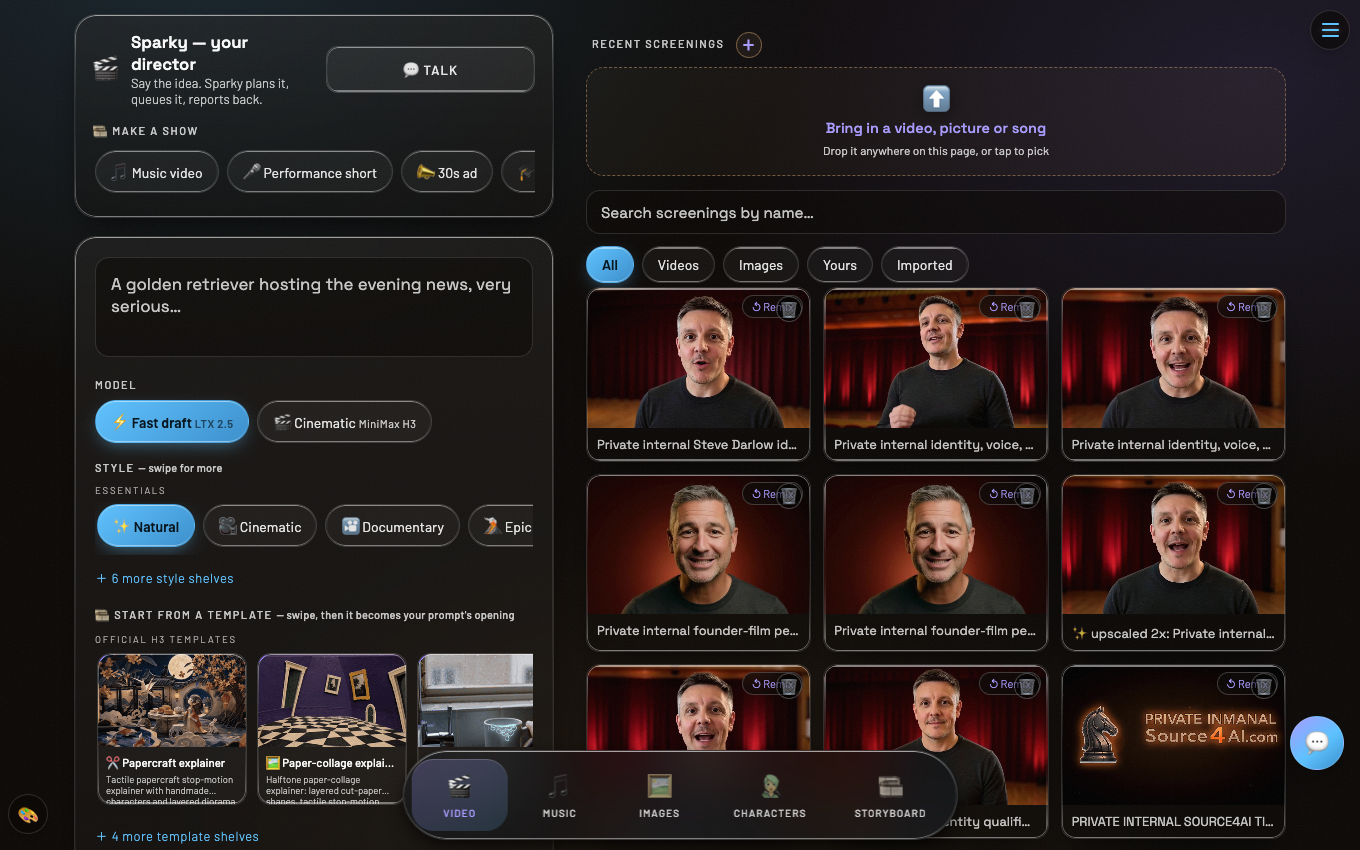
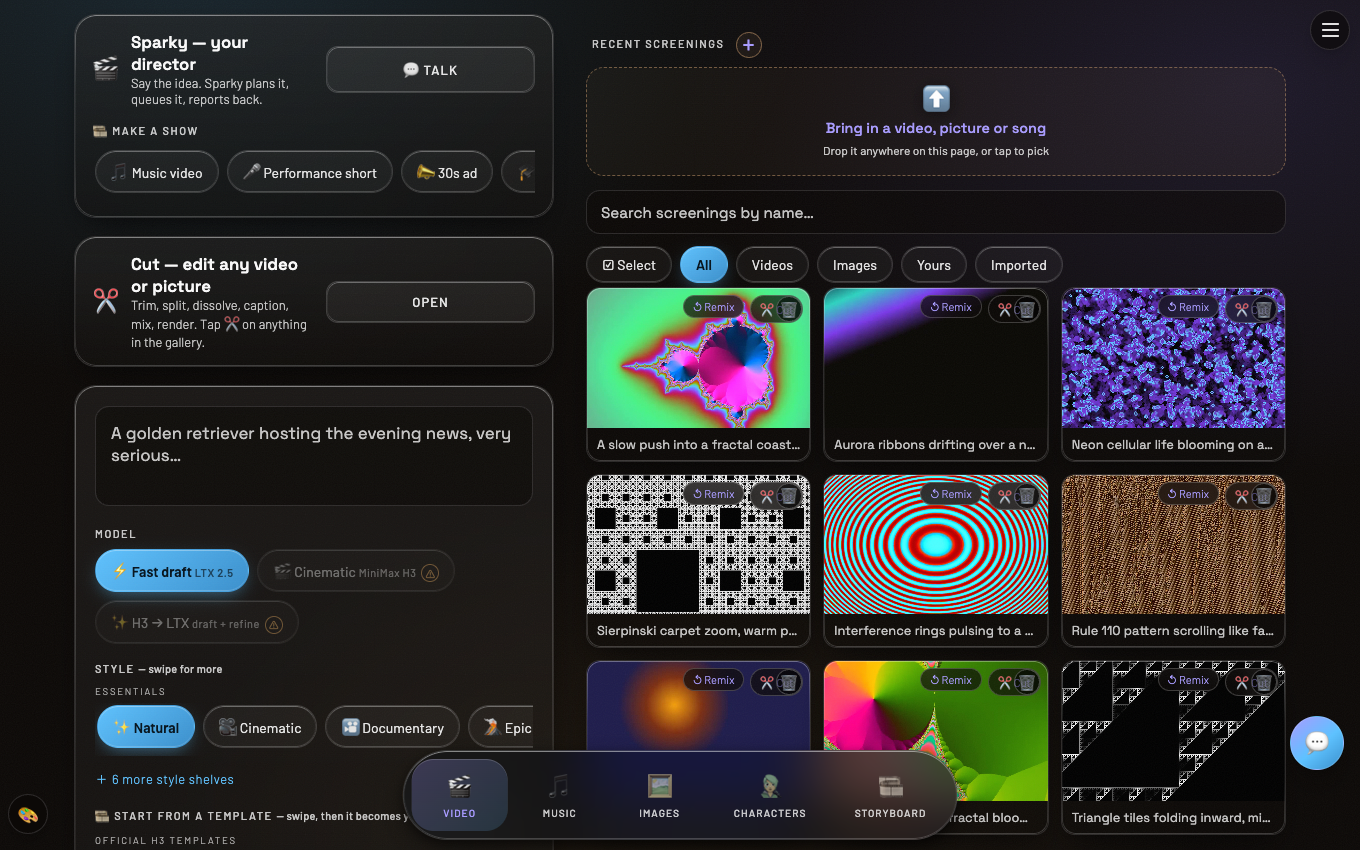
Replace the studio screenshots; tests stop naming private words; overlay looks keep their ground
- media-lab/docs/screenshots/media-lab-desktop.png showed the maintainers'
  own faces, names and a private brand in the gallery. It and the phone
  shot (also in app/docs) are re-shot from a fresh local studio: public
  defaults, generated abstract demo clips, H3/YuE2 greyed out. README alt
  text follows.
- tests/test_identity_guard.py spelled out the words the guard hashes
  (assembled from pieces) plus a real hostname. The hashed-word cases now
  load the guard in-process with made-up words swapped into its tables;
  new checks: neither the guard nor this test file spells a blocked word
  (string literals on a line are joined first), and every kind of entry
  is still in the table. The guard's own comment used a blocked phrase
  as its example; it now uses a neutral one.
- tests/test_cut_storyboard.py checked for fragments of a real tailnet
  address and MagicDNS name; it now checks for any tailnet address or
  .ts.net name.
- index.html / cut.html: a look from config/local/themes.json painted the
  page ground dark before first render and on overscroll. paintChrome now
  paints the ground and remembers its colour (lab-theme-ink, validated
  #hex) once the look is known, and the pre-render bootstrap uses it.

Changed region(s): [[0.4324, 0.2753, 0.9574, 1.0], [0.0618, 0.4282, 0.4015, 1.0], [0.0618, 0.3059, 0.3706, 0.4282]]

diff --git a/media-lab/static/index.html b/media-lab/static/index.html
@@ -19,7 +19,9 @@
   if(t===null||t===undefined)t='coagent';   /* Studio default: the Co-Agent look */
   if(t)document.documentElement.dataset.theme=t;
   var ink={'':'#0B0806','coagent':'#0B0806','ocean':'#071019','emerald':'#06120C','violet':'#0D0814',
-           'paper':'#F7F7F8'}[t]||'#0B0806';
+           'paper':'#F7F7F8'}[t];
+  /* a look from the studio's local overlay: the ground it last painted */
+  if(!ink){var li=localStorage.getItem('lab-theme-ink');ink=/^#[0-9A-Fa-f]{3,8}$/.test(li||'')?li:'#0B0806';}
   document.documentElement.style.background=ink;
   var m=document.querySelector('meta[name="theme-color"]');   /* the static one above */
   if(m)m.setAttribute('content',ink);
@@ -2212,6 +2214,13 @@ function paintChrome(t){
   let m=document.querySelector('meta[name="theme-color"]');
   if(!m){m=document.createElement('meta');m.name='theme-color';document.head.appendChild(m);}
   m.setAttribute('content',ink);
+  /* the page ground too, remembered so the pre-render bootstrap can paint an
+     overlay look's ground (only once that look is known here: an overlay look
+     read before /api/local/themes answers must not overwrite its ink) */
+  if((t||'') in THEME_INK){
+    document.documentElement.style.background=ink;
+    try{localStorage.setItem('lab-theme-ink',ink);}catch(e){}
+  }
   const lk=document.querySelector('link[rel="manifest"]');
   if(lk)lk.href=t?`/manifest.json?theme=${encodeURIComponent(t)}`:'/manifest.json';
 }

diff --git a/media-lab/static/cut.html b/media-lab/static/cut.html
@@ -18,7 +18,9 @@
   if(t===null||t===undefined)t='coagent';
   if(t)document.documentElement.dataset.theme=t;
   var ink={'':'#0B0806','coagent':'#0B0806','ocean':'#071019','emerald':'#06120C','violet':'#0D0814',
-           'paper':'#F7F7F8'}[t]||'#0B0806';
+           'paper':'#F7F7F8'}[t];
+  /* a look from the studio's local overlay: the ground it last painted */
+  if(!ink){var li=localStorage.getItem('lab-theme-ink');ink=/^#[0-9A-Fa-f]{3,8}$/.test(li||'')?li:'#0B0806';}
   document.documentElement.style.background=ink;
   var m=document.querySelector('meta[name="theme-color"]');
   if(m)m.setAttribute('content',ink);

diff --git a/media-lab/tests/test_identity_guard.py b/media-lab/tests/test_identity_guard.py
@@ -1,22 +1,29 @@
 """Tests for tools/identity_guard.py.
 
-The guard runs on `git ls-files`, so every case builds a throwaway repository in
-`tmp_path` and invokes the guard there as a subprocess (`repo_root()` resolves
-from cwd). Private identifiers are assembled at runtime so this test file never
-itself contains a string the guard would reject.
+The guard runs on `git ls-files`, so the file-level cases build a throwaway
+repository in `tmp_path` and invoke the guard there as a subprocess
+(`repo_root()` resolves from cwd).
+
+This file never names a real private word, not even assembled from pieces: the
+hashed-word cases load the guard in-process and swap its tables for made-up
+words, so the mechanism is tested without publishing what it keeps out. Values
+that look private to the guard's patterns (a MagicDNS name, an e-mail address)
+are made up too, and assembled at runtime because the guard scans this file.
 """
 from __future__ import annotations
 
+import importlib.util
 import pathlib
+import re
 import subprocess
 import sys
 
 REPO_ROOT = pathlib.Path(__file__).resolve().parents[2]
 GUARD = REPO_ROOT / "media-lab" / "tools" / "identity_guard.py"
 
-# Built by concatenation: the guard scans this file too.
-PRIVATE_ABS_PATH = b"/Users/" + b"vibex/proj/mod.py"
-PRIVATE_HOSTNAME = "spark-" + "d16e"
+# Made up, and built by concatenation: the guard scans this file too.
+PRIVATE_ABS_PATH = b"/Users/" + b"someone/proj/mod.py"
+PRIVATE_HOSTNAME = "box-1a2b.tail" + "0c1d2e.ts.net"
 
 
 def _git(repo: pathlib.Path, *args: str) -> subprocess.CompletedProcess[str]:
@@ -179,12 +186,31 @@ def test_clean_tree_reports_clean_and_no_remedy(tmp_path: pathlib.Path) -> None:
     assert "Remove the bytecode artifact from the repository" not in result.stderr
 
 # ------------------------------------------------ names, brands, e-mail, CSS
-# Every private word below is assembled at runtime ("a" + "b"): the guard scans
-# this file too, and a quote-plus-quote join is never read as one word.
-PERSON = "Hea" + "ther"
-BRAND = "auto" + "edu"
-CLIENT = "gs" + "gel" + "ato"
-MAIL_DOMAIN = "gm" + "ail.com"
+# Made-up words stand in for the real ones: the real list is stored only as
+# salted hashes, and this file must not spell it out either.
+FAKE_PERSON = "Zorbeth"
+FAKE_BRAND = "quuxcorp"
+FAKE_CLIENT = "zq widgets"          # a two-word phrase
+MAIL_DOMAIN = "mail" + "provider.com"
+
+
+def _load_guard():
+    spec = importlib.util.spec_from_file_location("identity_guard_under_test", GUARD)
+    module = importlib.util.module_from_spec(spec)
+    spec.loader.exec_module(module)
+    return module
+
+
+def _guard_with(monkeypatch, words: dict[str, str], allow_next: dict[str, tuple] | None = None):
+    """The guard, its hash tables replaced by these made-up words -> kinds."""
+    g = _load_guard()
+    table = {g.phrase_hash(w): kind for w, kind in words.items()}
+    firsts = {g.phrase_hash(w.split()[0]) for w in words if len(w.split()) > 1}
+    monkeypatch.setattr(g, "PRIVATE_HASHES", table)
+    monkeypatch.setattr(g, "PHRASE_FIRST_WORDS", firsts)
+    monkeypatch.setattr(g, "ALLOW_NEXT_WORD",
+                        {g.phrase_hash(w): nxt for w, nxt in (allow_next or {}).items()})
+    return g
 
 
 def _scan_text(tmp_path: pathlib.Path, name: str, text: str) -> subprocess.CompletedProcess[str]:
@@ -194,29 +220,44 @@ def _scan_text(tmp_path: pathlib.Path, name: str, text: str) -> subprocess.Compl
     return _run_guard(tmp_path)
 
 
-def test_personal_name_is_rejected(tmp_path: pathlib.Path) -> None:
-    result = _scan_text(tmp_path, "notes.md", f"# {PERSON}'s rule for the studio\n")
-    assert result.returncode == 1
-    assert "notes.md:1:" in result.stderr and "personal name" in result.stderr
+def test_personal_name_is_rejected(monkeypatch, tmp_path: pathlib.Path) -> None:
+    g = _guard_with(monkeypatch, {FAKE_PERSON.lower(): "a maintainer's personal name"})
+    hit = g.line_hit(f"# {FAKE_PERSON}'s rule for the studio")
+    assert hit and FAKE_PERSON in hit and "personal name" in hit
+    notes = tmp_path / "notes.md"
+    notes.write_text(f"ok line\nasked by {FAKE_PERSON.upper()}\n")
+    hits = g.scan([notes], tmp_path)
+    assert len(hits) == 1 and hits[0].startswith("notes.md:2:")
+    assert g.line_hit("an ordinary line about the studio") is None
 
 
-def test_lower_case_knit_colour_is_not_a_name(tmp_path: pathlib.Path) -> None:
-    result = _scan_text(tmp_path, "prompt.txt", f"a fitted {PERSON.lower()}-gray tee\n")
-    assert result.returncode == 0, result.stderr
-    result = _scan_text(tmp_path / "b", "prompt.txt", f"the {PERSON} grey-canvas lesson\n")
-    assert result.returncode == 1
+def test_lower_case_colour_exception_keeps_the_capitalised_name(monkeypatch) -> None:
+    g = _guard_with(monkeypatch, {FAKE_PERSON.lower(): "a maintainer's personal name"},
+                    allow_next={FAKE_PERSON.lower(): ("gray", "grey")})
+    assert g.line_hit(f"a fitted {FAKE_PERSON.lower()}-gray tee") is None
+    assert g.line_hit(f"the {FAKE_PERSON} grey-canvas lesson")
+    assert g.line_hit(f"{FAKE_PERSON.lower()} said so")
 
 
-def test_private_brand_in_a_hostname_is_rejected(tmp_path: pathlib.Path) -> None:
-    result = _scan_text(tmp_path, "cfg.env", f"URL=https://media.{BRAND}.ai/x\n")
-    assert result.returncode == 1 and "private brand" in result.stderr
+def test_private_brand_in_a_hostname_is_rejected(monkeypatch) -> None:
+    g = _guard_with(monkeypatch, {FAKE_BRAND: "a private brand"})
+    hit = g.line_hit(f"URL=https://media.{FAKE_BRAND}.ai/x")
+    assert hit and "private brand" in hit
+    # a word that merely contains it is a different word
+    assert g.line_hit(f"URL=https://media.{FAKE_BRAND}ish.ai/x") is None
 
 
-def test_client_brand_and_copied_css_are_rejected(tmp_path: pathlib.Path) -> None:
-    result = _scan_text(tmp_path, "a.css", f"/* from {CLIENT} */\n")
-    assert result.returncode == 1 and "client brand" in result.stderr
+def test_multi_word_client_phrase_is_rejected(monkeypatch) -> None:
+    g = _guard_with(monkeypatch, {FAKE_CLIENT: "a client brand"})
+    hit = g.line_hit("/* colours from ZQ  Widgets, verbatim */")
+    assert hit and "client brand" in hit
+    assert g.line_hit("zq-widgets.css") and g.line_hit("zq_widgets")
+    assert g.line_hit("zq alone is fine; widgets too") is None
+
+
+def test_copied_client_css_is_rejected(tmp_path: pathlib.Path) -> None:
     rim = ("rgba(255,255,255," + ".50) 0%,\n  rgba(255,255,255," + ".16) 22%")
-    result = _scan_text(tmp_path / "b", "b.css", f".x{{background:linear-gradient(180deg,\n  {rim})}}\n")
+    result = _scan_text(tmp_path, "b.css", f".x{{background:linear-gradient(180deg,\n  {rim})}}\n")
     assert result.returncode == 1 and "copied CSS" in result.stderr
 
 
@@ -233,9 +274,30 @@ def test_personal_email_is_rejected_and_reserved_domains_pass(tmp_path: pathlib.
 
 
 def test_guard_source_never_spells_the_words_it_blocks() -> None:
-    source = GUARD.read_text(encoding="utf-8").lower()
-    for word in (PERSON, BRAND, CLIENT, MAIL_DOMAIN, PRIVATE_HOSTNAME):
-        assert word.lower() not in source, word
+    """Every hashed word or phrase stays out of the guard's own source."""
+    g = _load_guard()
+    for n, line in enumerate(GUARD.read_text(encoding="utf-8").splitlines(), 1):
+        assert g.private_phrase(line) is None, f"identity_guard.py:{n}"
+
+
+def test_this_test_file_never_spells_a_blocked_word() -> None:
+    """Not even assembled from pieces: join the string literals on each line."""
+    g = _load_guard()
+    literal = re.compile(r'''b?(["'])((?:\\.|(?!\1).)*?)\1''')
+    for n, line in enumerate(pathlib.Path(__file__).read_text(encoding="utf-8").splitlines(), 1):
+        joined = "".join(m.group(2) for m in literal.finditer(line))
+        assert g.private_phrase(joined) is None, f"line {n}"
+        assert g.private_phrase(line) is None, f"line {n}"
+
+
+def test_hash_table_is_well_formed_and_covers_each_kind() -> None:
+    g = _load_guard()
+    assert all(re.fullmatch(r"[0-9a-f]{16}", h) for h in g.PRIVATE_HASHES)
+    assert all(re.fullmatch(r"[0-9a-f]{16}", h) for h in g.PHRASE_FIRST_WORDS)
+    kinds = set(g.PRIVATE_HASHES.values())
+    for kind in ("a maintainer's personal name", "a private brand", "a client brand",
+                 "a private production", "a private machine identity"):
+        assert kind in kinds, kind
 
 
 def test_hash_helper_prints_an_entry_to_paste() -> None:

diff --git a/media-lab/tests/test_cut_storyboard.py b/media-lab/tests/test_cut_storyboard.py
@@ -1,5 +1,6 @@
 import copy
 import json
+import re
 from pathlib import Path
 
 import pytest
@@ -223,8 +224,11 @@ def test_cut_ui_contract_and_entrypoints_exist():
     assert '@app.post("/api/cut/projects/{project_id}/commands")' in app_source
     assert '@app.post("/api/cut/projects/{project_id}/sparky/commands")' in app_source
     assert '@app.post("/api/cut/projects/{project_id}/render")' in app_source
-    # no private hosts in anything Cut ships
+    # no private hosts in anything Cut ships: no tailnet (CGNAT) address, no
+    # MagicDNS name, no service account or laptop hostname
+    tailnet_ip = re.compile(r"\b100\.(?:6[4-9]|[7-9]\d|1[01]\d|12[0-7])\.\d{1,3}\.\d{1,3}\b")
     for text in (html, css, js, (ROOT / "media_lab_core/cut.py").read_text(),
                  (ROOT / "media_lab_core/cut_cli.py").read_text(), (ROOT / "docs/CUT.md").read_text()):
-        for bad in ("100.66.", "medialab", "macbook-pro", "tail33"):
+        assert not tailnet_ip.search(text)
+        for bad in (".ts.net", "medialab", "macbook-pro"):
             assert bad not in text

diff --git a/media-lab/tools/identity_guard.py b/media-lab/tools/identity_guard.py
@@ -72,7 +72,7 @@ PRIVATE_PATTERNS = [
 ]
 
 # Salted SHA-256 prefixes of private words and phrases, lower-cased, words
-# joined by one space ("dead sun", "100 64 1 2"). Value = what kind of thing it
+# joined by one space ("some phrase", "100 64 1 2"). Value = what kind of thing it
 # is, which is all a hit reports besides the matched text.
 HASH_SALT = b"vibexstudio-identity-guard:v1:"
 PRIVATE_HASHES = {

diff --git a/media-lab/README.md b/media-lab/README.md
@@ -10,7 +10,7 @@ and charge for generation. Engine support and licenses vary; see the
 [capability status](../docs/CAPABILITY-STATUS.md).
 
 <p align="center">
-  <img src="docs/screenshots/media-lab-desktop.png" width="640" alt="Media Lab — a real studio: Sparky, the maker panel, and a gallery of generated talking-head films">
+  <img src="docs/screenshots/media-lab-desktop.png" width="640" alt="Media Lab — Sparky, the maker panel and a gallery of generated clips; licence-restricted engines are greyed out on a fresh install">
   &nbsp;
   <img src="docs/screenshots/media-lab-mobile.png" width="200" alt="Media Lab — phone">
 </p>

diff --git a/README.md b/README.md
@@ -17,7 +17,7 @@ platform or engine has completed runtime qualification. See
 <p align="center">
   <img src="app/docs/screenshots/iphone-dark.png" width="220" alt="VibeXStudio on iPhone — NOIR dark">
   &nbsp;
-  <img src="media-lab/docs/screenshots/media-lab-desktop.png" width="500" alt="Media Lab — a real studio full of generated films">
+  <img src="media-lab/docs/screenshots/media-lab-desktop.png" width="500" alt="Media Lab — Sparky, the maker panel and a gallery of generated clips">
 </p>
 <p align="center">
   <img src="app/docs/screenshots/desktop-dark.png" width="360" alt="VibeXStudio Desktop — dark">
